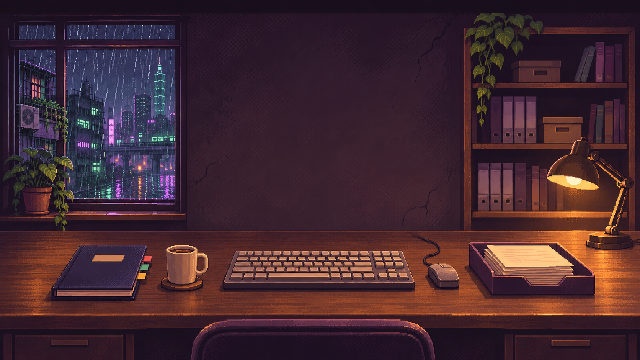
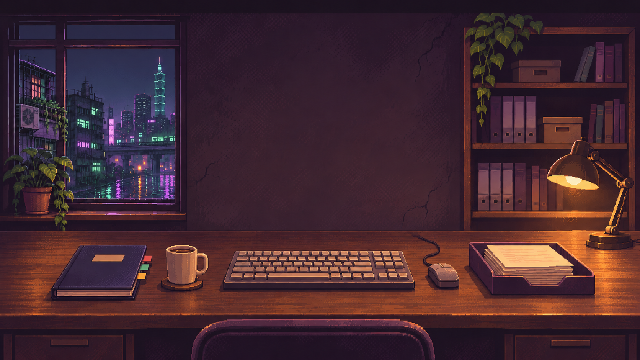
Animate the office rain and fit desk labels

diff --git a/Game/Assets/Scripts/UI/OfficeRain.cs b/Game/Assets/Scripts/UI/OfficeRain.cs
@@ -1,0 +1,97 @@
+using UnityEngine;
+using UnityEngine.UI;
+
+namespace SSD
+{
+    /// <summary>將窗外的雨畫成同一張 UI 網格，並沿窗框和盆栽剪裁。</summary>
+    public sealed class OfficeRain : MaskableGraphic
+    {
+        const int WindowTop = 25;
+        const int WindowBottom = 199;
+        const int WindowLeft = 18;
+        const int WindowRight = 175;
+        const int FramesPerSecond = 24;
+
+        struct Drop
+        {
+            public int x, phase, length, speed;
+            public byte alpha;
+        }
+
+        readonly Drop[] drops = new Drop[62];
+        int frame;
+
+        public static void Build(Transform parent)
+        {
+            RectTransform layer = Px.Rect(parent, "WindowRain", WindowLeft, WindowTop,
+                WindowRight - WindowLeft, WindowBottom - WindowTop);
+            layer.gameObject.AddComponent<OfficeRain>().raycastTarget = false;
+        }
+
+        protected override void Awake()
+        {
+            base.Awake();
+            var random = new System.Random(371);
+            for (int i = 0; i < drops.Length; i++)
+            {
+                drops[i] = new Drop
+                {
+                    x = random.Next(WindowLeft, WindowRight + 23),
+                    phase = random.Next(WindowBottom - WindowTop + 12),
+                    length = random.Next(4, 11),
+                    speed = random.Next(105, 225),
+                    alpha = (byte)random.Next(70, 152)
+                };
+            }
+        }
+
+        void Update()
+        {
+            int nextFrame = Mathf.FloorToInt(Time.unscaledTime * FramesPerSecond);
+            if (canvasRenderer.cull || nextFrame == frame) return;
+            frame = nextFrame;
+            SetVerticesDirty();
+        }
+
+        protected override void OnPopulateMesh(VertexHelper mesh)
+        {
+            mesh.Clear();
+            float time = frame / (float)FramesPerSecond;
+            foreach (Drop drop in drops)
+            {
+                float travel = time * drop.speed + drop.phase;
+                int y = WindowTop + (int)Mathf.Repeat(travel, WindowBottom - WindowTop + drop.length);
+                for (int offset = 0; offset < drop.length; offset++)
+                {
+                    int pixelY = y - offset;
+                    int pixelX = drop.x - (pixelY - WindowTop) / 9;
+                    if (!OnGlass(pixelX, pixelY)) continue;
+                    byte alpha = (byte)(drop.alpha * (drop.length - offset) / drop.length);
+                    AddPixel(mesh, pixelX - WindowLeft, WindowTop - pixelY, new Color32(181, 202, 242, alpha));
+                }
+            }
+        }
+
+        static bool OnGlass(int x, int y)
+        {
+            bool topPane = y >= WindowTop && y < 40;
+            bool bottomPane = y >= 50 && y < WindowBottom;
+            bool leftPane = x >= WindowLeft && x < 55;
+            bool rightPane = x >= 67 && x < WindowRight;
+            // 左下的盆栽會遮住靠近窗柱的雨絲。
+            return (leftPane && (topPane || (bottomPane && y < 148)))
+                || (rightPane && (topPane || (bottomPane && (x >= 76 || y < 154))));
+        }
+
+        static void AddPixel(VertexHelper mesh, int x, int y, Color32 color)
+        {
+            int first = mesh.currentVertCount;
+            mesh.AddVert(new Vector3(x, y), color, Vector2.zero);
+            mesh.AddVert(new Vector3(x + 1, y), color, Vector2.zero);
+            mesh.AddVert(new Vector3(x + 1, y - 1), color, Vector2.zero);
+            mesh.AddVert(new Vector3(x, y - 1), color, Vector2.zero);
+            mesh.AddTriangle(first, first + 1, first + 2);
+            mesh.AddTriangle(first, first + 2, first + 3);
+        }
+    }
+}

diff --git a/Game/Assets/Scripts/UI/OfficeView.cs b/Game/Assets/Scripts/UI/OfficeView.cs
@@ -60,6 +60,7 @@ namespace SSD
             {
                 room.sprite = sprite;
                 room.color = Color.white;
+                OfficeRain.Build(rt);
             }
 
             Px.Fill(rt, 0, 0, PixelScaler.Width, 14, Pal.Ink);
@@ -73,9 +74,8 @@ namespace SSD
 
             if (sprite != null)
             {
-                RectTransform label = Px.Box(rt, "HandbookLabel", 80, 250, 60, 16, Pal.Hex("#c99766"), Pal.Hex("#775246"));
-                Px.Label(label, "工作手冊", 0, 1, 60, 14, Pal.PaperInk, TextAnchor.MiddleCenter, false).fontSize = 11;
-                Px.Label(rt, "待辦", 521, 281, 38, 12, Pal.Cream, TextAnchor.MiddleCenter, false).fontSize = 10;
+                Px.Label(rt, "手冊", 93, 253, 30, 8, Pal.PaperInk, TextAnchor.MiddleCenter, false).fontSize = 8;
+                Px.Label(rt, "待辦", 561, 282, 29, 10, Pal.Hex("#c6a79e"), TextAnchor.MiddleCenter, false).fontSize = 9;
             }
 
             BuildMonitor();
